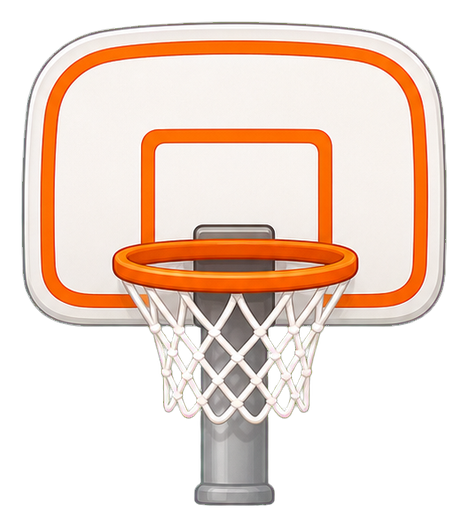
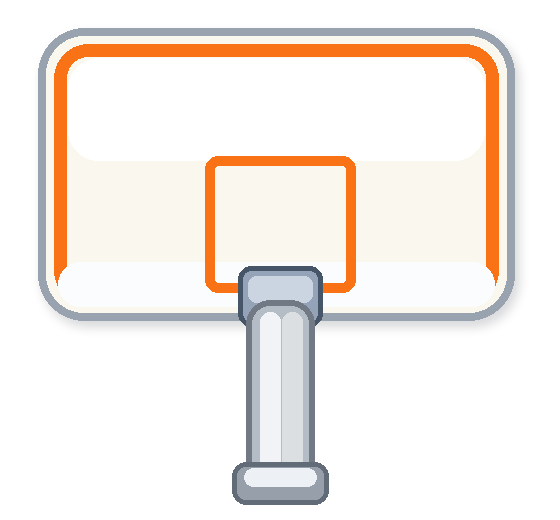
Adjust hoop back asset

Changed region(s): [[0.0299, 0.0308, 0.9552, 0.9846]]

diff --git a/assets/manifest.js b/assets/manifest.js
@@ -58,10 +58,10 @@ window.DINO_ASSETS = {
     "prop.hoopBack": {
       src: "assets/images/props/hoop-back.png",
       kind: "prop",
-      width: 469,
+      width: 560,
       height: 520,
       anchorX: 0.5,
-      anchorY: 0.43,
+      anchorY: 0.6,
       logicalWidthScale: 5.4
     },
     "prop.hoopFront": {
